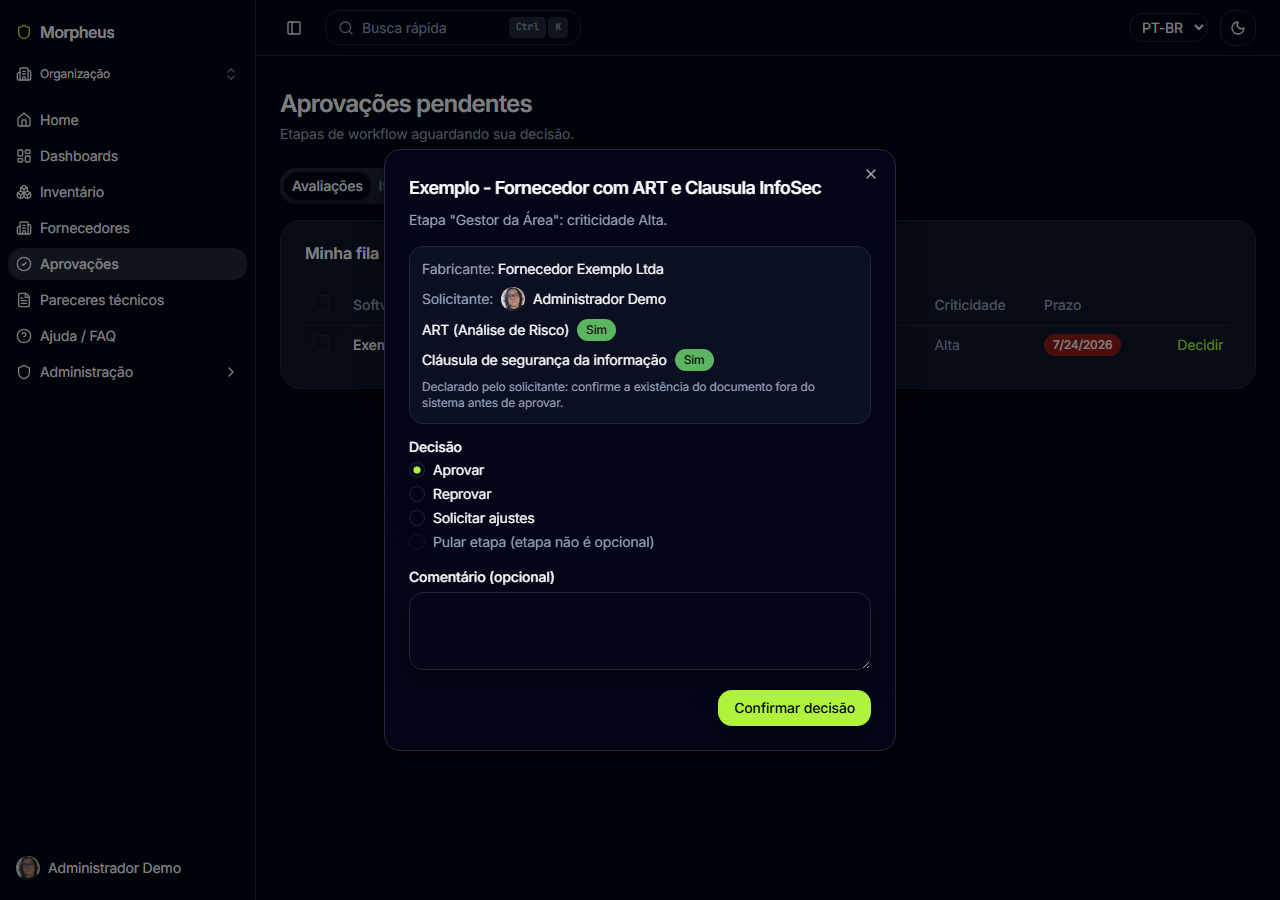
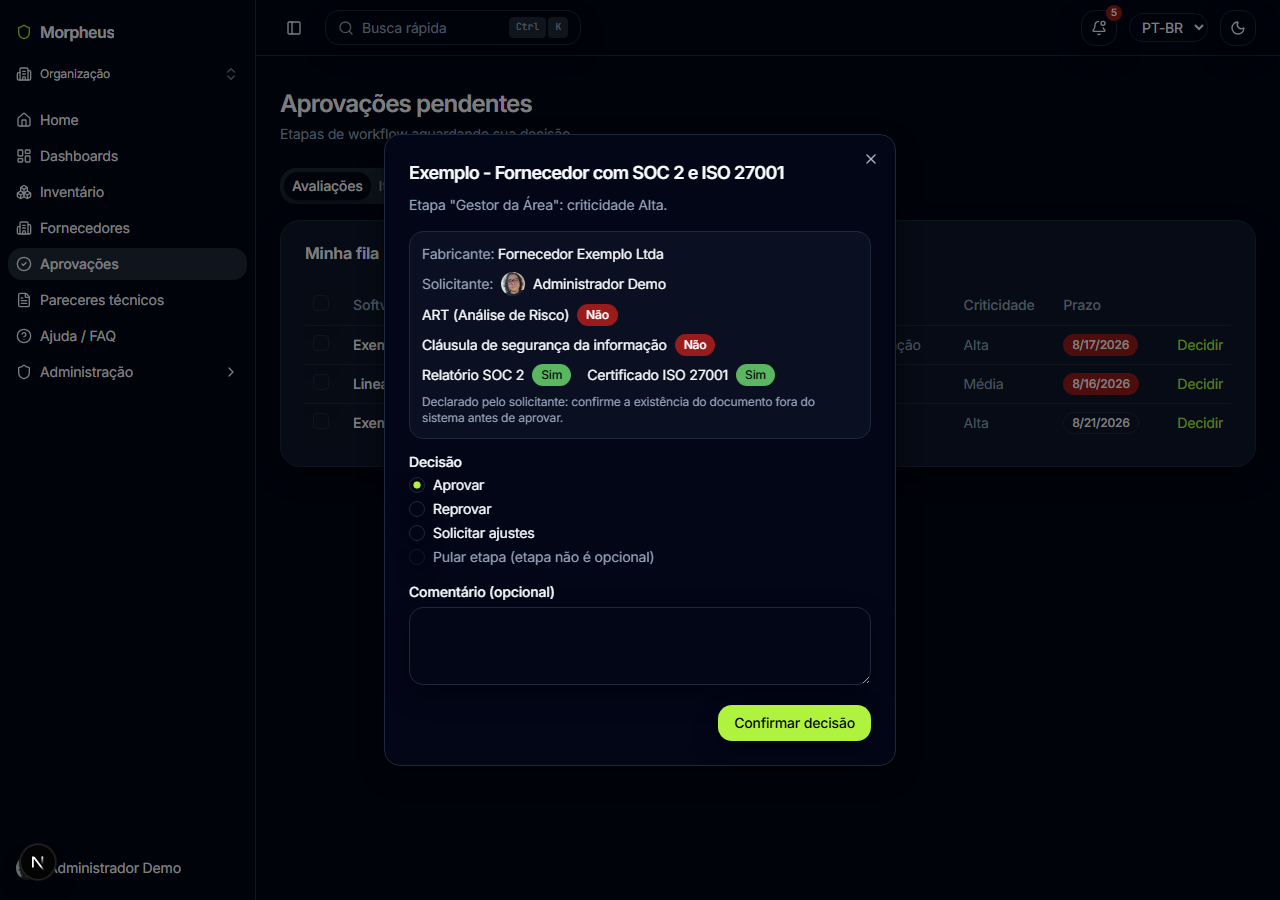
docs(portfolio): Fase 5 - screenshots e README do arco SOC 2/ISO 27001/DPIA
Regenera approvals-decisao(.png/-en.png) mostrando os 2 badges novos,
usando um item de demonstracao real e permanente no tenant demo (nao
fabricado via SQL). README ganha nota curta na secao de ART/fornecedores
ja existente sobre os novos criterios e o painel de reaproveitamento.
Fecha o arco de 5 fases.

diff --git a/docs/changelog/2026-08.md b/docs/changelog/2026-08.md
@@ -2793,3 +2793,27 @@ em dark mode).
      hasSoc2Report, hasIso27001Certificate}`, sem vazar conteúdo de anexo/tenant/outros campos; nenhuma
      rota nova sem autenticação; nenhum SQL cru introduzido.
   - **Nenhum achado que exija correção de código.** Os 5 itens passaram.
+
+- **Critérios de auditoria externa no assessment de software - Fase 5, portfólio (branch
+  `docs/audit-criteria-fase5-portfolio`), fecha o arco.** `approvals-decisao.png`/`-en.png` já estava
+  na tabela curada do README - regenerado pela regra já estabelecida (screen curada mudou
+  visivelmente).
+  - Novo item de demonstração permanente no tenant `demo`: "Exemplo - Fornecedor com SOC 2 e ISO
+    27001" (mesma convenção de nomenclatura "Exemplo -..." já usada pelo item de ART/InfoSec
+    existente), com os 2 anexos reais (categoria `SOC2_REPORT`/`ISO27001_CERTIFICATE`) e enviado de
+    verdade - fica pendente na fila de aprovações, mesmo espírito do item de demonstração original,
+    não um estado fabricado via SQL. Respostas do questionário escolhidas deliberadamente pra não
+    disparar o gatilho de LGPD (evita confundir o showcase com uma 3ª pendência de DPIA).
+  - Gotcha recorrente confirmado de novo: texto acentuado enviado via `curl -d` inline mangla o UTF-8
+    (`justificativa` corrompida no primeiro POST) - corrigido com um `PATCH` via script `.mjs`
+    (Write tool), mesma técnica já documentada em sessões anteriores.
+  - `README.md` (PT-BR+EN): nota curta na seção "Avaliação de risco de fornecedores (metodologia)"
+    já existente (não uma seção nova), logo após a tabela de screenshots de ART, explicando que SOC
+    2/ISO 27001 exigem anexo real (diferente do par original, que é só declarativo) e que o
+    reaproveitamento entre avaliações do mesmo fornecedor evita pedir o documento de novo. Painel de
+    reaproveitamento na ART do fornecedor avaliado e **não** incluído como screenshot novo na tabela
+    curada - painel pequeno/informativo, não julgado candidato genuíno o bastante (regra do gatilho
+    de portfólio não obriga, só permite).
+  - **Testes**: `checkForDuplicateScreenshots` limpo contra as 54 imagens finais do portfólio (zero
+    colisões); revisão visual dos 2 screenshots regenerados (PT-BR+EN, badges corretos, tema escuro
+    mantido).

diff --git a/README.md b/README.md
@@ -78,6 +78,12 @@ avaliado ou está com reavaliação vencida/próxima.
 | --- | --- |
 | ![ART do fornecedor](./docs/screenshots/inventory-item-art.png) | ![Acompanhamento de fornecedores](./docs/screenshots/vendors-acompanhamento.png) |
 
+Além do par original (ART, cláusula de segurança da informação), a avaliação de software também pode
+declarar Relatório SOC 2 e certificado ISO 27001 - diferente do par original, essas duas exigem um
+anexo real na categoria correspondente antes do envio, não são só uma marcação de confiança. Quando uma
+avaliação de SaaS já aponta um desses documentos, a ART do mesmo fornecedor mostra um painel de
+reaproveitamento, evitando pedir o mesmo relatório de novo.
+
 ## Enriquecimento de inventário (metodologia)
 
 Além dos sinais autodeclarados (ART, cláusula de segurança da informação), cada item do inventário
@@ -362,6 +368,12 @@ overdue/upcoming reassessment.
 | Vendor ART on the item detail page | Vendor tracking |
 | --- | --- |
 | ![Vendor ART](./docs/screenshots/inventory-item-art-en.png) | ![Vendor tracking](./docs/screenshots/vendors-acompanhamento-en.png) |
+
+Beyond the original pair (ART, information security clause), a software assessment can also declare a
+SOC 2 report and an ISO 27001 certificate - unlike the original pair, these two require a real
+attachment in the matching category before submission, not just a trust checkbox. When a SaaS
+assessment already points to one of those documents, the same vendor's ART shows a reuse panel, so the
+same report isn't requested again.
 
 ## Inventory enrichment (methodology)
 

diff --git a/docs/CHANGELOG.md b/docs/CHANGELOG.md
@@ -30,8 +30,10 @@ uma linha do que aconteceu.
   projeto), enriquecimento do parecer técnico (Contexto/Metodologia/Conformidade/Recomendações,
   determinístico, Fases 1-4), `.gitattributes` novo forçando LF no checkout, arco completo de
   notificações (sino + página + conteúdo bilíngue, Fases 1-4), correção de screenshots quebrados/
-  regressão de tema claro no portfólio (com estrutura permanente de captura criada em resposta), e
-  histórico de versões da avaliação exposto na UI (item 2 da auditoria de capacidade órfã).
+  regressão de tema claro no portfólio (com estrutura permanente de captura criada em resposta),
+  histórico de versões da avaliação exposto na UI (item 2 da auditoria de capacidade órfã), e novos
+  critérios de auditoria externa no assessment de software (SOC 2, ISO 27001, DPIA/LGPD, Fases 1-5),
+  com painel de reaproveitamento na ART do fornecedor pra não pedir o mesmo documento de novo.
 - [**Julho**](./changelog/2026-07.md): Construção inicial do produto (roteiro técnico Etapas 1-16 +
   plano pós-roteiro Etapas A-I), multi-tenancy e administração avançada, backlog pós-uso, renovação
   anual de homologação, avaliação de risco de fornecedores, vínculo Inventory↔Vendor, SSDLC/CI, e
